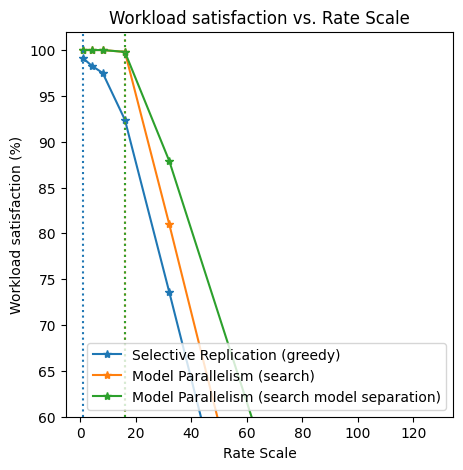
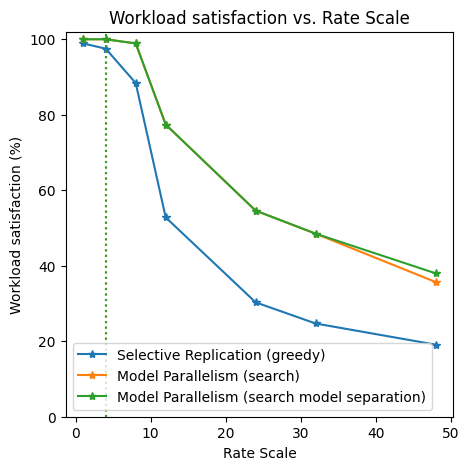
all real general v5.0

diff --git a/benchmarks/alpa/plot_various_metrics.py b/benchmarks/alpa/plot_various_metrics.py
@@ -111,7 +111,7 @@ def plot_goodput_common(data, threshold, increasing, xlabel, title, output, show
         x_max = max(x_max, *xs)
         y_max = max(y_max, *ys)
 
-    ax.set_ylim(bottom=60, top=max(y_max * 1.02, 100))
+    ax.set_ylim(bottom=0, top=max(y_max * 1.02, 100))
     ax.set_ylabel("Workload satisfaction (%)")
     ax.set_xlabel(xlabel)
     ax.legend(curves, legends)
